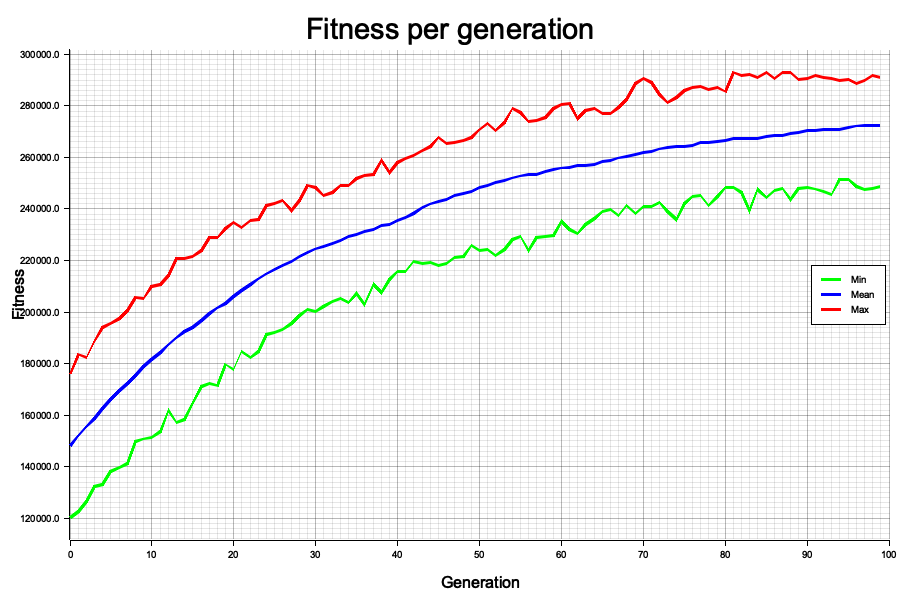
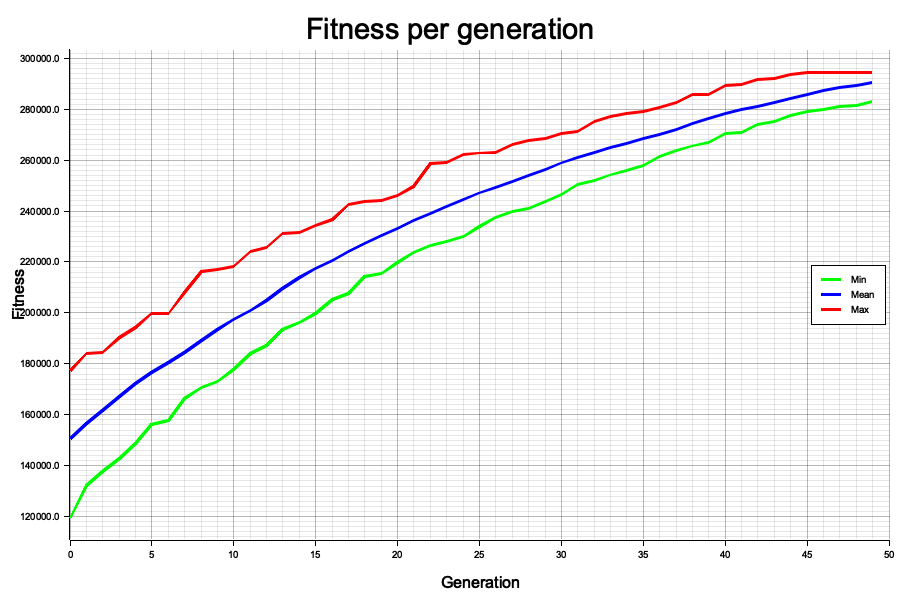
:sparkles: Updated the survival selection; Added selection between SGA and Crowding Options

diff --git a/src/main.rs b/src/main.rs
@@ -8,7 +8,8 @@ const PENALTY_FACTOR: f64 = 1000.0;
 const POPULATION_SIZE: usize = 1000;
 const MUTATION_RATE: f64 = 0.01;
 const CROSSOVER_RATE: f64 = 0.85;
-const GENERATIONS: usize = 100;
+const GENERATIONS: usize = 50;
+const SURVIVAL_SELECTION: usize = 2;
 
 #[derive(Deserialize, Clone)]
 struct DataPoint {
@@ -62,10 +63,11 @@ struct GA {
     mutation_rate: f64,
     crossover_rate: f64,
     generations: usize,
+    survival_selection: usize,
 }
 
 impl GA {
-    fn new(items: Vec<DataPoint>, population_size: usize, mutation_rate: f64, crossover_rate: f64, generations: usize) -> Self {
+    fn new(items: Vec<DataPoint>, population_size: usize, mutation_rate: f64, crossover_rate: f64, generations: usize, survival_selection: usize) -> Self {
         let mut population = Vec::with_capacity(population_size);
         let mut rng = rand::thread_rng();
         let n_genes = items.len();
@@ -85,6 +87,7 @@ impl GA {
             mutation_rate,
             crossover_rate,
             generations,
+            survival_selection,
         }
     }
 
@@ -133,13 +136,40 @@ impl GA {
         population[0].clone()
     }
 
-    fn create_children(&self) -> (Individual, Individual) {
+    fn deterministic_crowding(&self, parent: &Individual, child: &Individual) -> Individual {
+        if child.fitness > parent.fitness {
+            child.clone()
+        } else {
+            parent.clone()
+        }
+    }
+
+    fn probabilistic_crowding(&self, parent: &Individual, child: &Individual) -> Individual {
+        let sum = parent.fitness + child.fitness;
+        let probability = if sum == 0.0 {
+            0.5
+        } else {
+            (child.fitness / sum).clamp(0.0, 1.0)
+        };
+        let mut rng = rand::thread_rng();
+        if rng.gen_bool(probability) {
+            child.clone()
+        } else {
+            parent.clone()
+        }
+    }
+
+    fn hamming_distance(&self, individual1: &Individual, individual2: &Individual) -> usize {
+        individual1.genes.iter().zip(individual2.genes.iter()).filter(|(a, b)| a != b).count()
+    }
+
+    fn create_children(&self) -> (Individual, Individual, Individual, Individual) {
         let parent1 = self.parent_selection(&self.population);
         let parent2 = self.parent_selection(&self.population);
         let (child1, child2) = self.crossover(&parent1, &parent2);
         let child1 = self.mutation(&child1);
         let child2 = self.mutation(&child2);
-        (child1, child2)
+        (parent1, parent2, child1, child2)
     }
 
     fn evaluate_population(&mut self) {
@@ -153,18 +183,66 @@ impl GA {
         self.evaluate_population();
 
         for gen in 0..self.generations {
-            // Create offspring population of the same size
-            let mut offspring = Vec::with_capacity(self.population_size);
-            for _ in 0..(self.population_size / 2) {
-                let (mut child1, mut child2) = self.create_children();
-                child1.fitness = child1.fitness(&self.items);
-                child2.fitness = child2.fitness(&self.items);
-                offspring.push(child1);
-                offspring.push(child2);
+            match self.survival_selection {
+                1 => {
+                    let mut offspring = Vec::with_capacity(self.population_size);
+                    for _ in 0..(self.population_size / 2) {
+                        let (_, _, mut child1, mut child2) = self.create_children();
+                        child1.fitness = child1.fitness(&self.items);
+                        child2.fitness = child2.fitness(&self.items);
+                        offspring.push(child1);
+                        offspring.push(child2);
+                    }
+                    self.population = offspring;
+                }
+                2 => {
+                    let mut new_population = Vec::with_capacity(self.population_size);
+                    for _ in 0..(self.population_size / 2) {
+                        let (parent1, parent2, mut child1, mut child2) = self.create_children();
+                        child1.fitness = child1.fitness(&self.items);
+                        child2.fitness = child2.fitness(&self.items);
+                        
+                        let dist_p1_c1 = self.hamming_distance(&parent1, &child1);
+                        let dist_p1_c2 = self.hamming_distance(&parent1, &child2);
+                        
+                        let (survivor1, survivor2) = if dist_p1_c1 < dist_p1_c2 {
+                            (self.deterministic_crowding(&parent1, &child1), 
+                             self.deterministic_crowding(&parent2, &child2))
+                        } else {
+                            (self.deterministic_crowding(&parent1, &child2), 
+                             self.deterministic_crowding(&parent2, &child1))
+                        };
+                        
+                        new_population.push(survivor1);
+                        new_population.push(survivor2);
+                    }
+                    self.population = new_population;
+                }
+                3 => {
+                    let mut new_population = Vec::with_capacity(self.population_size);
+                    for _ in 0..(self.population_size / 2) {
+                        let (parent1, parent2, mut child1, mut child2) = self.create_children();
+                        child1.fitness = child1.fitness(&self.items);
+                        child2.fitness = child2.fitness(&self.items);
+                        
+                        let dist_p1_c1 = self.hamming_distance(&parent1, &child1);
+                        let dist_p1_c2 = self.hamming_distance(&parent1, &child2);
+                        
+                        let (survivor1, survivor2) = if dist_p1_c1 < dist_p1_c2 {
+                            (self.probabilistic_crowding(&parent1, &child1), 
+                             self.probabilistic_crowding(&parent2, &child2))
+                        } else {
+                            (self.probabilistic_crowding(&parent1, &child2), 
+                             self.probabilistic_crowding(&parent2, &child1))
+                        };
+                        
+                        new_population.push(survivor1);
+                        new_population.push(survivor2);
+                    }
+                    self.population = new_population;
+                }
+                _ => panic!("Invalid survival selection mode. Use 1, 2, or 3."),
             }
-            
-            // Generational replacement: replace entire population with offspring
-            self.population = offspring;
 
             let min_f = self.population.iter().map(|i| i.fitness).fold(f64::INFINITY, f64::min);
             let max_f = self.population.iter().map(|i| i.fitness).fold(f64::NEG_INFINITY, f64::max);
@@ -213,7 +291,16 @@ fn read_items(path: &str) -> Vec<DataPoint> {
 
 fn main() {
     let items = read_items("data/knapPI_12_500_1000_82.csv");
-    let mut ga = GA::new(items, POPULATION_SIZE, MUTATION_RATE, CROSSOVER_RATE, GENERATIONS);
+    let mut ga = GA::new(items, POPULATION_SIZE, MUTATION_RATE, CROSSOVER_RATE, GENERATIONS, SURVIVAL_SELECTION);
+    
+    let mode_name = match SURVIVAL_SELECTION {
+        1 => "Simple GA (Generational)",
+        2 => "Deterministic Crowding",
+        3 => "Probabilistic Crowding",
+        _ => "Unknown",
+    };
+    println!("Running with mode {}: {}", SURVIVAL_SELECTION, mode_name);
+    
     let start = std::time::Instant::now();
     let (best, history) = ga.run();
     let elapsed = start.elapsed();
